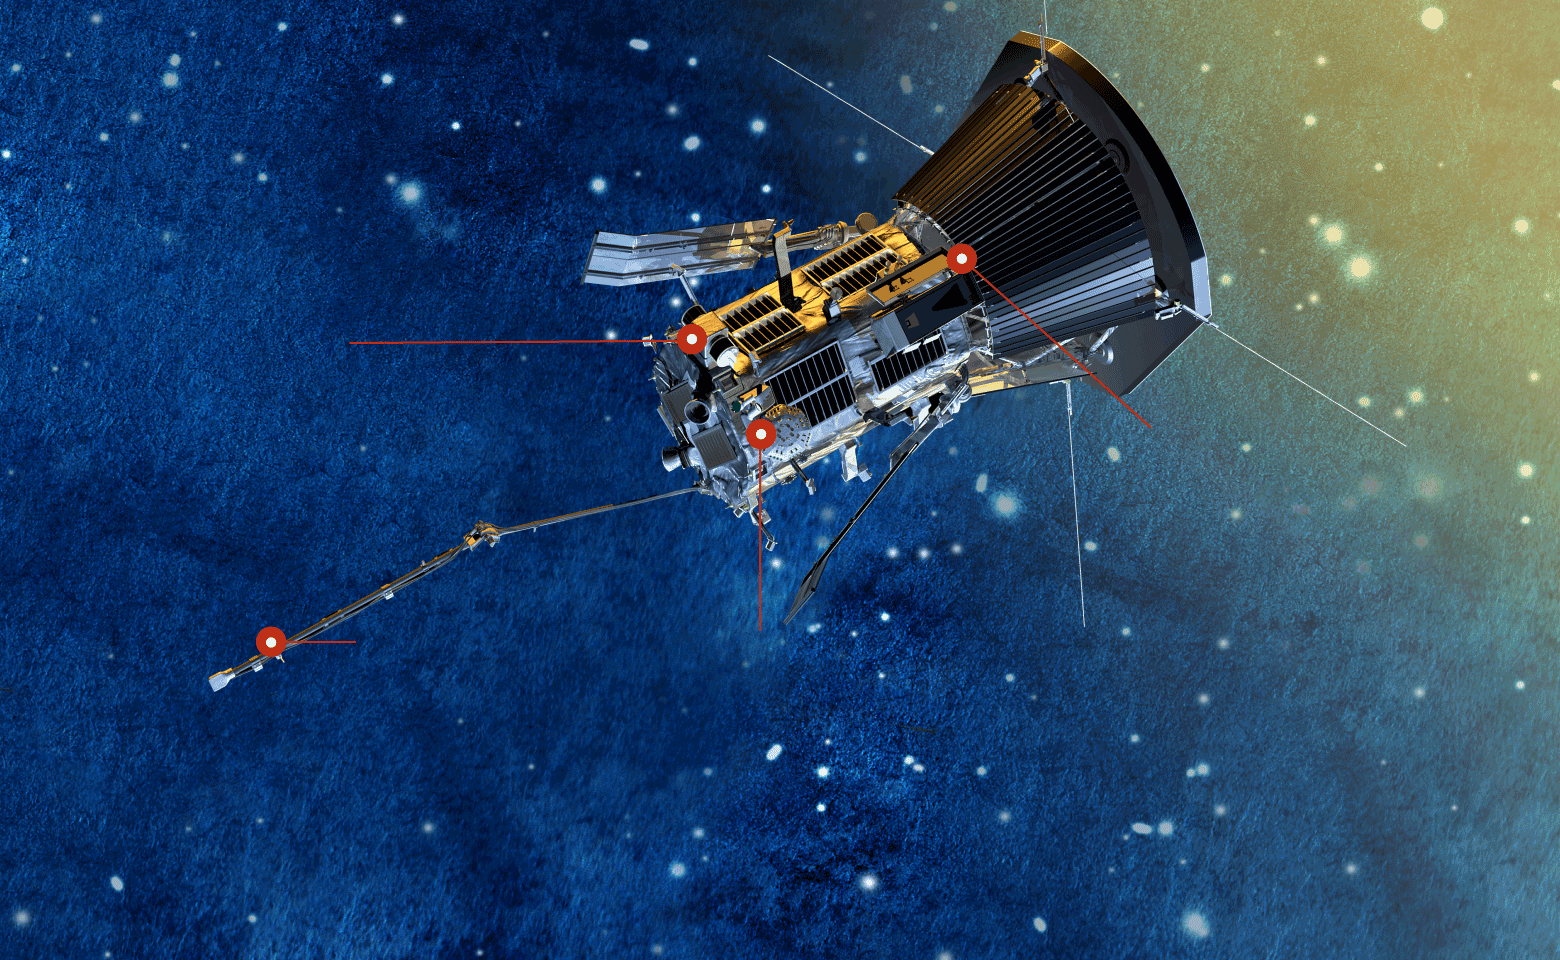
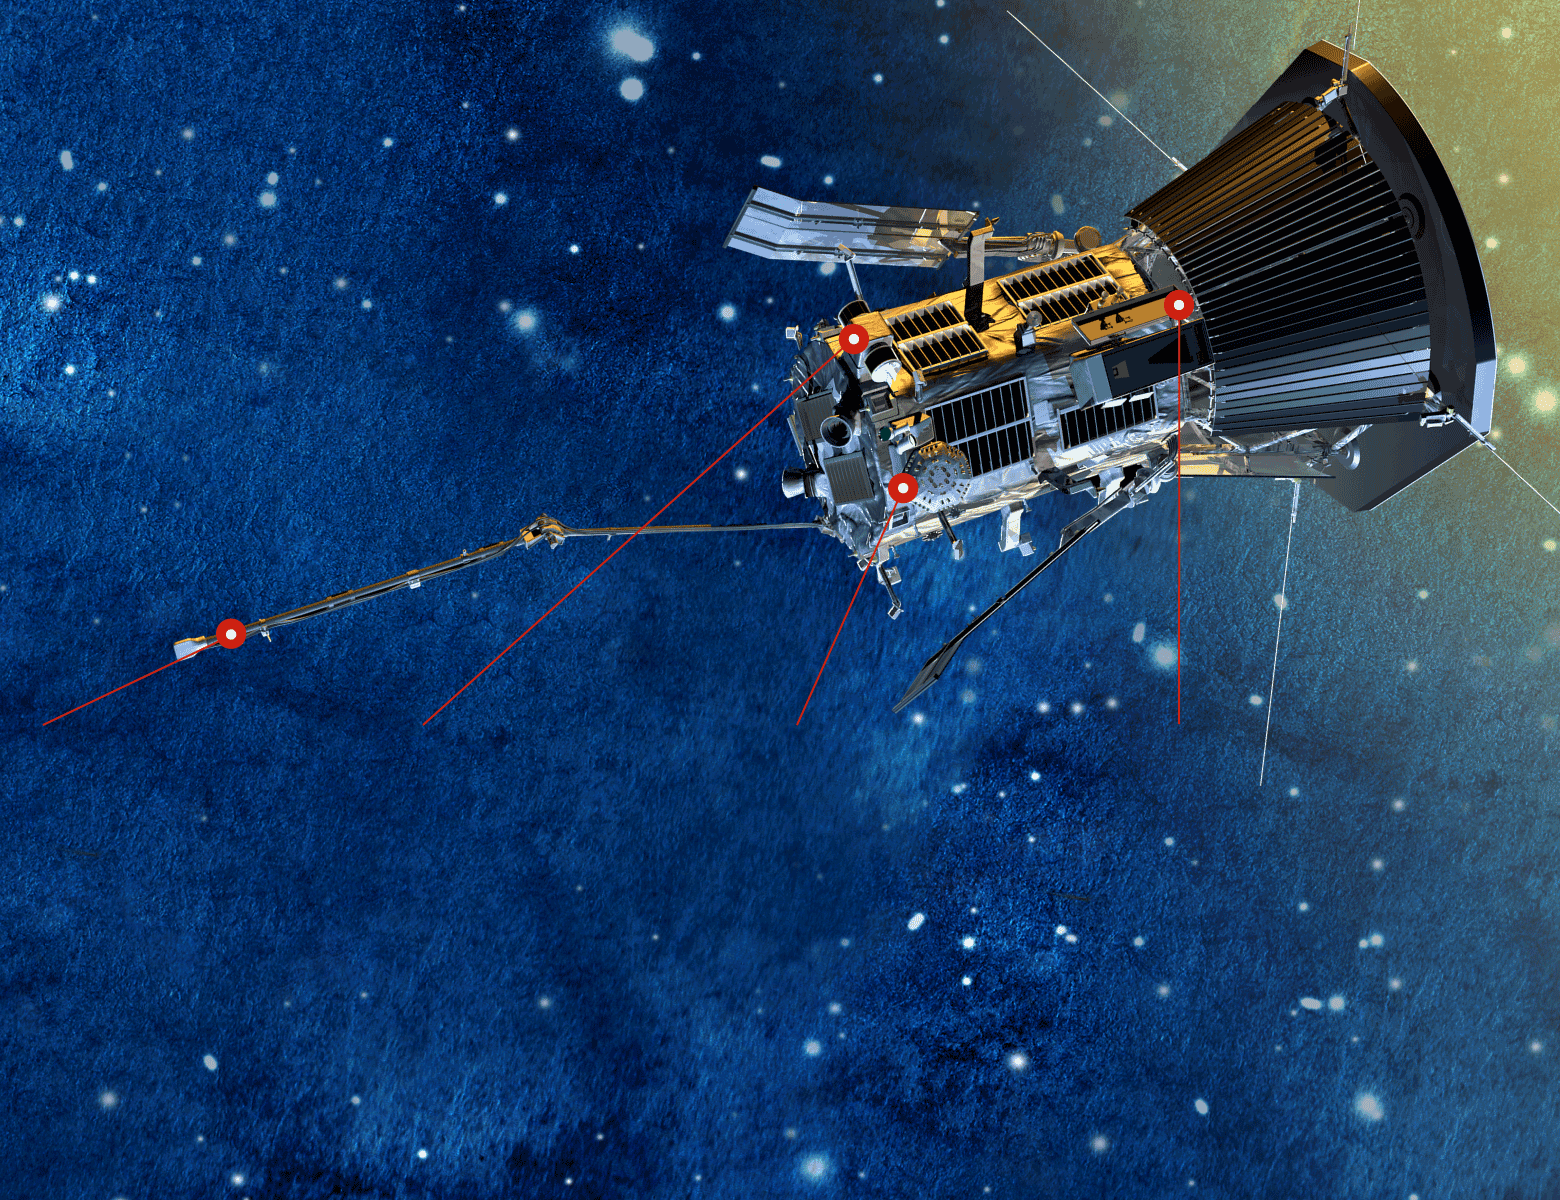
refine desktop layout

diff --git a/ai2html/parker-probe/ai2html-output_psp-01/index.html b/ai2html/parker-probe/ai2html-output_psp-01/index.html
@@ -20,7 +20,7 @@ p {
 </head>
 <body>
 <div id="coe-psp-01-box" class="ai2html">
-	<!-- Generated by ai2html v0.65.1-coe-customized-v2 - 2018-03-20 - 13:43 -->
+	<!-- Generated by ai2html v0.65.1-coe-customized-v2 - 2018-03-20 - 14:06 -->
 	<!-- ai file: psp-01.ai -->
 
 	<style type='text/css' media='screen,print'>
@@ -103,8 +103,8 @@ p {
 			}
 			#coe-psp-01-desktop-780 p {
 				font-weight:500;
-				font-size:10px;
-				line-height:14px;
+				font-size:12px;
+				line-height:17px;
 				filter:alpha(opacity=100);
 				-ms-filter:progid:DXImageTransform.Microsoft.Alpha(Opacity=100);
 				opacity:1;
@@ -124,38 +124,36 @@ p {
 				text-transform:uppercase;
 			}
 			#coe-psp-01-desktop-780 .coe-pstyle1 {
-				font-size:12px;
-			}
-			#coe-psp-01-desktop-780 .coe-pstyle2 {
 				font-family:'Open Sans',arial,helvetica,sans-serif;
 				font-weight:700;
-				font-size:12px;
+				font-size:14px;
 			}
 		</style>
-		<div id="coe-ai0-0" class="coe-aiBackgroundImg" style="width:100%;padding-bottom:61.54%; background-image:url(img/psp-01-desktop-780.png);"></div>
-		<div id="coe-ai0-1" class="coe-shadow coe-aiAbs coe-aiPointText" style="top:5.9061%;margin-top:-12.3px;left:2.5641%;width:188px;">
+		<div id="coe-ai0-0" class="coe-aiBackgroundImg" style="width:100%;padding-bottom:76.92%; background-image:url(img/psp-01-desktop-780.png);"></div>
+		<div id="coe-ai0-1" class="coe-shadow coe-aiAbs coe-aiPointText" style="top:4.7249%;margin-top:-12.3px;left:2.5641%;width:188px;">
 			<p class="coe-pstyle0">Parkers's Toolbox</p>
 		</div>
-		<div id="coe-ai0-2" class="coe-shadow coe-aiAbs" style="top:8.3333%;left:2.5641%;width:33.3333%;">
-			<p class="coe-pstyle1">Sampling the sun&rsquo;s atmosphere requires NASA to pack the Parker Solar Probe with a variety of sensing and optical equipment. The gear is aimed at providing answers in four different areas of scientific inquiry.</p>
+		<div id="coe-ai0-2" class="coe-shadow coe-aiAbs" style="top:6.3333%;left:2.5641%;width:46.1538%;">
+			<p>Sampling the sun&rsquo;s atmosphere requires NASA to pack the Parker Solar Probe with a variety of sensing and optical equipment. The gear is aimed at providing answers in four different areas of scientific inquiry.</p>
 		</div>
-		<div id="coe-ai0-3" class="coe-shadow coe-aiAbs" style="top:35%;left:2.6923%;width:23.4615%;">
-			<p class="coe-pstyle2">Solar Wind Electrons and Protons (SWEAP) Investigation</p>
-			<p>A trio of sensors will break down the makeup of the solar wind &ndash; counting the electrons, protons and helium ions it includes and measuring their velocity, density and temperatures.</p>
-		</div>
-		<div id="coe-ai0-4" class="coe-shadow coe-aiAbs" style="top:44.375%;left:74.1026%;width:23.4615%;">
-			<p class="coe-pstyle2">Wide-field Imager for </p>
-			<p class="coe-pstyle2">Solar Probe (WISPR)</p>
-			<p>Will be capturing images of the solar wind and plasma in the atmosphere. Will derive the 3D structure of the large-scale corona.</p>
-		</div>
-		<div id="coe-ai0-5" class="coe-shadow coe-aiAbs" style="top:66.25%;left:23.2051%;width:23.4615%;">
-			<p class="coe-pstyle2">FIELDS Experiment</p>
+		<div id="coe-ai0-3" class="coe-shadow coe-aiAbs" style="top:61%;left:2.6923%;width:21.7949%;">
+			<p class="coe-pstyle1">FIELDS Experiment</p>
 			<p>Measuring the strength of the magnetic and electric fields in the corona with voltage sensors and magnetometers. It will also gauge the absolute plasma density and electron temperatures.</p>
 		</div>
-		<div id="coe-ai0-6" class="coe-shadow coe-aiAbs" style="top:66.25%;left:48.4615%;width:23.4615%;">
-			<p class="coe-pstyle2">Integrated Science </p>
-			<p class="coe-pstyle2">Investigation of the Sun (IS0IS)</p>
+		<div id="coe-ai0-4" class="coe-shadow coe-aiAbs" style="top:61%;left:27.0513%;width:21.7949%;">
+			<p class="coe-pstyle1">Solar Wind Electrons </p>
+			<p class="coe-pstyle1">and Protons (SWEAP) Investigation</p>
+			<p>A trio of sensors will break down the makeup of the solar wind &ndash; counting the electrons, protons and helium ions it includes and measuring their velocity, density and temperatures.</p>
+		</div>
+		<div id="coe-ai0-5" class="coe-shadow coe-aiAbs" style="top:61%;left:51.0256%;width:21.9231%;">
+			<p class="coe-pstyle1">Integrated Science </p>
+			<p class="coe-pstyle1">Investigation of the Sun (IS0IS)</p>
 			<p>Cataloging the energetic electrons, protons and heavy ions that are accelerated in the atmosphere as well as the inner heliosphere. Handled by the Energetic Particle Instrument &ndash; it&rsquo;s made up of one double-ended high-energy telescope and a pair of low-energy telescopes.</p>
+		</div>
+		<div id="coe-ai0-6" class="coe-shadow coe-aiAbs" style="top:61%;left:75.5128%;width:21.9231%;">
+			<p class="coe-pstyle1">Wide-field Imager for </p>
+			<p class="coe-pstyle1">Solar Probe (WISPR)</p>
+			<p>Will be capturing images of the solar wind and plasma in the atmosphere. Will derive the 3D structure of the large-scale corona.</p>
 		</div>
 	</div>
 
@@ -356,7 +354,7 @@ p {
 			<p>Measuring the strength of the magnetic and electric fields in the corona with voltage sensors and magnetometers. It will also gauge the absolute plasma density and electron temperatures.</p>
 		</div>
 	</div>
-	<!-- End ai2html - 2018-03-20 - 13:43 -->
+	<!-- End ai2html - 2018-03-20 - 14:06 -->
 </div>
 <p class='credit'>Michigan Engineering graphic  |  Source: insert source here</p>
 <p class='credit'>Infographic: Michigan Engineering</p>
